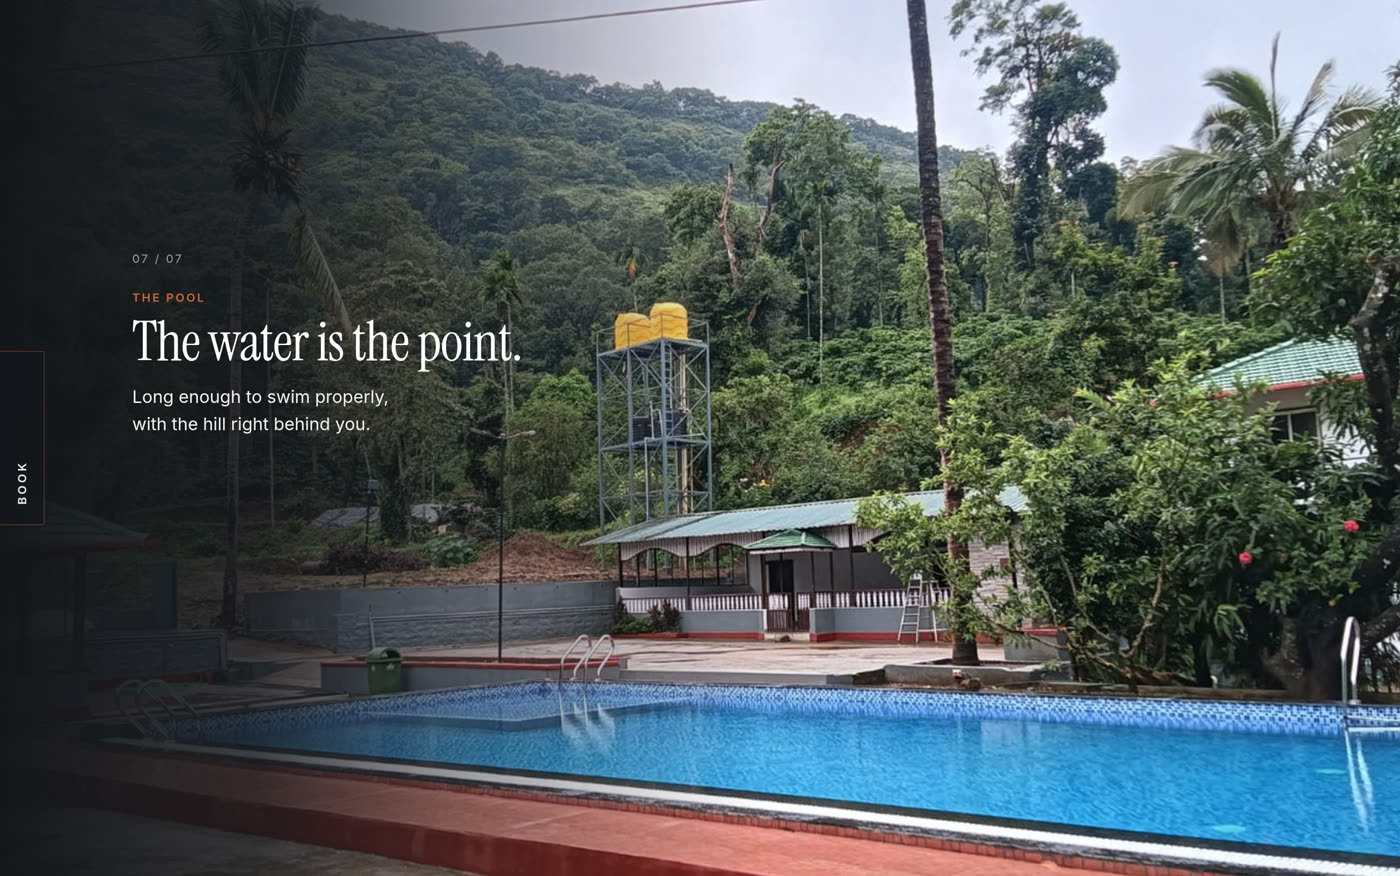
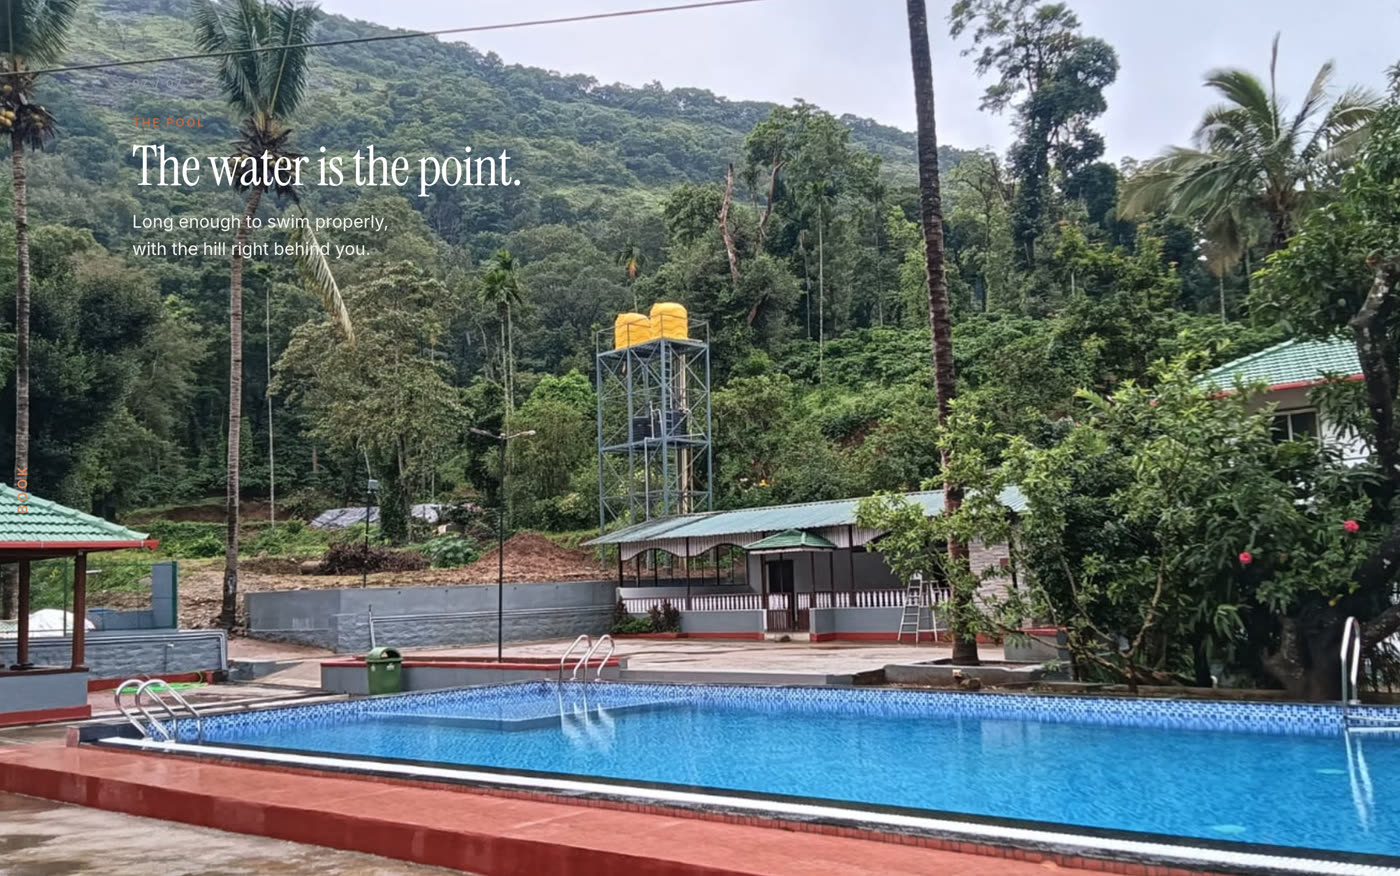
Remove the left shade, pace the canvas for phones, make the tile wall live
Three fixes.

THE BLACK SHADE. It was the engine's copy-layer gradient again -- the rule
switching it off had been deleted by a later edit to site.css, so the gradient
was back and dimming the left of every frame for the whole scroll. Restored.
While restoring it I found the text-shadow kill-rule had gone the same way, a
third silent deletion. Both now sit together at the top of the file, and
tools/check-css-invariants.sh greps for them so a fourth cannot pass unnoticed;
it caught the text-shadow one the moment it was written. These rules fail
invisibly, which is why a screenshot was the only thing that ever found them.

Removing the shade exposed a consequence of adding video: the copy positions had
been measured against the still canvases, which are now only posters. A spot
that is dark on the poster can be a white wall four seconds into the leg, and
one beat was sitting on exactly that. Re-measured against the rendered clips,
and against the copy's whole visible window rather than a single midpoint --
each zone scored by its WORST moment at t = 2.0, 3.5, 5.0 and 6.5s:

  ffmpeg -ss T -i render/raw/leg-0N.mp4 -frames:v 1 -vf scale=1920:1080 f.png
  ffmpeg -i f.png -vf "crop=560:230:X:Y,scale=1:1" -f rawvideo -pix_fmt gray -

Beat 5 has nowhere dark at all: the games room is lit white for the entire leg,
best worst-case anywhere in frame 150. Rather than lay a shade over the
photograph, its ink flips to dark -- roughly 5.8:1 against that backdrop where
[…]

diff --git a/web/css/site.css b/web/css/site.css
@@ -53,50 +53,27 @@ button { font: inherit; color: inherit; background: none; border: 0; cursor: poi
 .sw-topbar, .sw-hint, .sw-route, .sw-scrollbar, .sw-particles { display: none !important; }
 .sw-copy { left: calc(var(--s-rail) + var(--s-gut)) !important; }
 
-/* PER-BEAT COPY PLACEMENT.
-   With the scrim gone the copy must find its own contrast, so every beat puts it
-   where that photograph is already dark. The positions are measured, not
-   guessed: mean luminance of a 560x230 block — the copy's real footprint —
-   sampled on a 3x4 grid over each 1920x1080 canvas, darkest wins.
+/* ===========================================================================
+   NO SCRIM OVER THE PHOTOGRAPHS.
 
-     beat            zone            luminance (0-255)
-     2  gate         left,  middle   75
-     3  courtyard    right, lower    42
-     4  table        right, middle   69
-     5  billiards    centre, low     65
-     6  room         right, low      48
-     7  pool         left,  middle   73
+   The engine paints a dark left-to-right gradient behind the copy column
+   (.sw-copylayer::before, from inside @layer sw). It dimmed the left of every
+   frame for the whole scroll — the "black gradual shade" — and it is off.
 
-   Beats 3, 5 and 6 are bright down their whole left side — the white house, the
-   lit billiards room, the white bedding — which is why they sit right or centre.
-   The alternation reads as editorial rhythm rather than a fault.
-   Re-run the measurement (script in the commit message) if a canvas is re-cut.
-   Phones keep the engine's own bottom placement, so this is desktop only. */
-@media (min-width: 861px) {
-  .sw-copylayer .sw-copy { transform: none; }
-  /* 3 courtyard, 4 table, 6 room, 7 pool → right column */
-  .sw-copylayer .sw-copy:nth-child(3),
-  .sw-copylayer .sw-copy:nth-child(4),
-  .sw-copylayer .sw-copy:nth-child(6) { left: 63% !important; }
-  /* 5 billiards → centre */
-  .sw-copylayer .sw-copy:nth-child(5) { left: 35% !important; }
+   This rule has now been deleted twice by later edits to this file and had to be
+   restored both times, so it lives here, first, on its own, with a test guarding
+   it (see the shade check in the QA script). Do not fold it into another block.
+   Legibility is the per-beat copy placement below, and nothing else.
+   ======================================================================== */
+.sw-copylayer::before { display: none !important; }
 
-  .sw-copylayer .sw-copy:nth-child(2) { top: 28%; }   /* gate      */
-  .sw-copylayer .sw-copy:nth-child(3) { top: 48%; }   /* courtyard */
-  .sw-copylayer .sw-copy:nth-child(4) { top: 28%; }   /* table     */
-  /* The low pair anchor from the bottom: a top-% put the block's tail past the
-     viewport edge and clipped the last line of body copy. */
-  .sw-copylayer .sw-copy:nth-child(5),
-  .sw-copylayer .sw-copy:nth-child(6) { top: auto; bottom: 7%; }
-  .sw-copylayer .sw-copy:nth-child(7) { top: 28%; }   /* pool      */
-}
-
-/* NO TEXT SHADOW ON STORY TYPOGRAPHY.
-   The engine ships a shadow on .sw-copy__title from inside @layer sw, so this
-   override needs !important to win outright. A shadow reads as the words sitting
-   on top of the photograph rather than belonging to it, and smears a dark halo
-   into the frame. Nothing replaces it — not a glow, outline or drop-shadow.
-   Legibility is the per-beat placement above, and nothing else. */
+/* NO TEXT SHADOW ON STORY TYPOGRAPHY — the second half of the same idea, and it
+   lives here beside the scrim for the same reason: it has been deleted three
+   times by edits further down this file. The engine ships a shadow on
+   .sw-copy__title from inside @layer sw, so !important is required to beat it.
+   A shadow makes the words sit on top of the photograph and smears a dark halo
+   into the frame. Nothing replaces it — no glow, outline or drop-shadow.
+   tools/check-css-invariants.sh fails the build if either rule goes missing. */
 .sw-copy__title,
 .sw-copy__body,
 .sw-copy__eyebrow,
@@ -106,6 +83,55 @@ button { font: inherit; color: inherit; background: none; border: 0; cursor: poi
 .hero__eyebrow,
 .hero__sub {
   text-shadow: none !important;
+}
+
+/* PER-BEAT COPY PLACEMENT.
+   With no scrim, the copy has to find its own contrast, so every beat puts it
+   where the picture behind it is darkest.
+
+   Measured against the RENDERED CLIPS, not the still canvases — the stills are
+   only posters now, and a spot that is dark on the poster can be a white wall
+   four seconds into the leg. And measured across the copy's whole visible
+   window, not one instant: each zone is scored by its WORST (brightest) moment
+   at t = 2.0, 3.5, 5.0 and 6.5s, and the zone whose worst case is darkest wins.
+   Optimising a single midpoint is what left beat 3 sitting on a white house.
+
+     beat            zone            worst-case luminance (0-255)
+     2  gate         right, lower     69
+     3  courtyard    left,  lower     64
+     4  table        left,  lower     69
+     5  billiards    right, low      147   <- see below
+     6  room         left,  middle    86
+     7  pool         left,  top       92
+
+   Re-run the measurement (script in the commit message) if a leg is re-rendered.
+   Phones keep the engine's own bottom placement, so this is desktop only. */
+@media (min-width: 861px) {
+  .sw-copylayer .sw-copy { transform: none; }
+
+  .sw-copylayer .sw-copy:nth-child(2) { left: 63% !important; }
+  .sw-copylayer .sw-copy:nth-child(5) { left: 55% !important; }
+
+  .sw-copylayer .sw-copy:nth-child(2) { top: auto; bottom: 22%; }  /* gate      */
+  .sw-copylayer .sw-copy:nth-child(3) { top: auto; bottom: 22%; }  /* courtyard */
+  /* Beat 4 rides the dark green hill across the top of the frame; the lower
+     half of that leg is pale wall and wet concrete for most of its length. */
+  .sw-copylayer .sw-copy:nth-child(4) { top: 22%; bottom: auto; }  /* table     */
+  /* Beat 5 sits wholly on the green baize: the felt is a large, evenly lit,
+     mid-tone field, while the table body just below it is near-black. A block
+     spanning both cannot be one ink, so it is placed to clear the dark edge. */
+  .sw-copylayer .sw-copy:nth-child(5) { top: 40%; bottom: auto; }  /* billiards */
+  .sw-copylayer .sw-copy:nth-child(6) { top: 28%; }                /* room      */
+  .sw-copylayer .sw-copy:nth-child(7) { top: 8%;  }                /* pool      */
+
+  /* Beat 5 is the one frame with nowhere dark to stand: the games room is lit
+     white for the whole leg, worst case 147, so light type cannot win on it.
+     Rather than lay a shade over the photograph, the ink flips — dark type on a
+     bright picture. Same two registers, opposite polarity. */
+  .sw-copylayer .sw-copy:nth-child(5) .sw-copy__title { color: #14171a; }
+  .sw-copylayer .sw-copy:nth-child(5) .sw-copy__body,
+  .sw-copylayer .sw-copy:nth-child(5) .sw-copy__num { color: #2a3037; }
+  .sw-copylayer .sw-copy:nth-child(5) .sw-copy__eyebrow { color: #8f3d18; }
 }
 
 /* Keep the block compact so it stays inside the measured dark zone. */
@@ -147,16 +173,16 @@ body.past-canvas .sw-copylayer { pointer-events: none; }
   display: flex; align-items: center; justify-content: center;
   padding: 20px 13px;
   writing-mode: vertical-rl; text-orientation: mixed;
-  font-family: var(--s-font-micro); font-size: var(--s-micro); font-weight: 600;
-  letter-spacing: 0.22em; text-transform: uppercase;
-  color: var(--s-ink);
-  background: color-mix(in srgb, var(--s-bg) 76%, transparent);
-  backdrop-filter: blur(8px);
-  border: 1px solid color-mix(in srgb, var(--s-accent) 34%, transparent);
-  border-left: 0;
-  border-radius: 0 var(--s-radius) var(--s-radius) 0;
-  transition: padding var(--s-quick), background var(--s-quick),
-              border-color var(--s-quick), color var(--s-quick);
+  font-family: var(--s-font-micro);
+  font-size: calc(var(--s-micro) + 1px); font-weight: 800;
+  letter-spacing: 0.26em; text-transform: uppercase;
+  color: var(--s-accent-soft);
+  /* No panel, no blur, no border: the ask was a button and nothing else, so the
+     word itself is the control. Weight and tracking carry it instead of a box. */
+  background: none;
+  border: 0;
+  transition: padding var(--s-quick), color var(--s-quick),
+              letter-spacing var(--s-quick);
 }
 .book span { transform: rotate(180deg); }
 /* "your stay" is collapsed to nothing until hover, so the resting state is just
@@ -169,14 +195,13 @@ body.past-canvas .sw-copylayer { pointer-events: none; }
 }
 .book:hover, .book:focus-visible {
   padding-right: 17px;
-  background: color-mix(in srgb, var(--s-bg) 88%, transparent);
-  border-color: var(--s-accent);
-  color: var(--s-accent-soft);
+  letter-spacing: 0.3em;
+  color: #fff;
 }
 .book:hover .book__more, .book:focus-visible .book__more {
   max-height: 8em; opacity: 1; margin-top: .6em;
 }
-.book:active { padding-right: 12px; background: color-mix(in srgb, var(--s-accent) 18%, var(--s-bg)); }
+.book:active { padding-right: 11px; color: var(--s-accent); }
 
 @media (max-width: 720px) {
   .book { padding: 16px 10px; letter-spacing: 0.16em; }
@@ -274,6 +299,11 @@ body.past-canvas .sw-copylayer { pointer-events: none; }
   transition: transform .6s var(--s-ease), opacity .6s var(--s-ease);
   opacity: .82;
 }
+/* Live tiles: a tile turning over to show another photograph from its group.
+   The outgoing image fades and lifts, the incoming one settles in behind it. */
+.tile img.turning { opacity: 0; transform: scale(1.06); }
+.tile.lit { outline: 1px solid color-mix(in srgb, var(--s-accent) 55%, transparent); outline-offset: -1px; }
+.tile.lit img { opacity: 1; }
 .tile:hover img, .tile:focus-visible img { transform: scale(1.045); opacity: 1; }
 .tile figcaption {
   position: absolute; left: 0; right: 0; bottom: 0; padding: 10px 12px;

diff --git a/web/js/site.js b/web/js/site.js
@@ -15,8 +15,31 @@
   const reduced = matchMedia('(prefers-reduced-motion: reduce)').matches;
 
   /* ---- 1. Mount the walkthrough ---------------------------------------- */
+  // Scroll distances are in viewport-heights, so a phone's shorter viewport
+  // turns the same swipe into far more of the clip: the camera races and whole
+  // frames go past unseen. The engine also coalesces seeks on touch — it drops
+  // a queued seek while the decoder is still working — which compounds it.
+  // Giving each beat more travel on a phone is the half we control: more scroll
+  // per frame means every frame gets screen time under a slide.
+  const coarse = matchMedia('(hover: none) and (pointer: coarse)').matches;
+  const phone = coarse || innerWidth <= 860;
+  const PHONE_PACE = 1.9;
+
   const world = $('#world');
-  if (world && window.SHERLOCK_WORLD) mountScrollWorld(world, window.SHERLOCK_WORLD);
+  if (world && window.SHERLOCK_WORLD) {
+    const cfg = window.SHERLOCK_WORLD;
+    if (phone) {
+      cfg.diveScroll = (cfg.diveScroll || 0.8) * PHONE_PACE;
+      cfg.sections = cfg.sections.map(sec => ({
+        ...sec,
+        scroll: (sec.scroll || 0.8) * PHONE_PACE,
+        // Linger remaps time so the camera settles mid-scene. On a phone that
+        // stall reads as the clip stopping, so ease it back rather than off.
+        linger: sec.linger ? sec.linger * 0.6 : sec.linger,
+      }));
+    }
+    mountScrollWorld(world, cfg);
+  }
 
   /* ---- 2. Gallery, built from the manifest ------------------------------ */
   // Tile shapes cycle so the mosaic never lines up into a plain grid. Wide and
@@ -71,7 +94,9 @@
                   loading="lazy" decoding="async" width="${im.width}" height="${im.height}">
              <figcaption class="micro">${esc(shortLabel(im))}</figcaption>
            </figure>`;
-        b.addEventListener('click', () => openLightbox(g, imgs, i));
+        // Read the index off the element, not the closure: a live tile may have
+        // turned over since it was built, and the click must open what is on it.
+        b.addEventListener('click', () => openLightbox(g, imgs, +b.dataset.index));
         grid.appendChild(b);
       });
 
@@ -79,6 +104,68 @@
     });
 
     observeReveals();
+    startLiveTiles(data);
+  }
+
+  /* ---- 2b. Live tiles ---------------------------------------------------
+     The wall turns over: every couple of seconds one tile flips to another
+     photograph from its own group and keeps it. Over a minute the whole grid
+     reshuffles, which is what makes it a live tile wall rather than a
+     contact sheet — and every photograph is still one click from the carousel.
+
+     It only runs while the gallery is actually on screen, and not at all under
+     prefers-reduced-motion. Whatever a tile is currently showing is what its
+     click opens, so the two never disagree.                                */
+  let liveTimer = null;
+  function startLiveTiles(data) {
+    if (reduced) return;
+    const gallery = $('[data-gallery]');
+    if (!gallery) return;
+
+    const byGroup = {};
+    (data.galleryGroups || []).forEach(g => {
+      byGroup[g.id] = data.images.filter(i => i.galleryGroup === g.id);
+    });
+
+    const turn = () => {
+      const tiles = $$('.tile', gallery);
+      if (!tiles.length) return;
+      const tile = tiles[Math.floor(Math.random() * tiles.length)];
+      const pool = byGroup[tile.dataset.group] || [];
+      if (pool.length < 2) return;
+
+      const showing = +tile.dataset.index;
+      let next = showing;
+      while (next === showing) next = Math.floor(Math.random() * pool.length);
+      const im = pool[next];
+      const img = tile.querySelector('img');
+      if (!img) return;
+
+      // Decode before showing it, so the tile never flashes empty mid-turn.
+      const incoming = new Image();
+      incoming.src = `../assets/raw/${encodeURIComponent(im.file)}`;
+      incoming.decode().catch(() => {}).then(() => {
+        img.classList.add('turning');
+        tile.classList.add('lit');
+        setTimeout(() => {
+          img.src = incoming.src;
+          img.alt = im.description;
+          tile.dataset.index = String(next);
+          tile.setAttribute('aria-label', `Open: ${im.description}`);
+          const cap = tile.querySelector('figcaption');
+          if (cap) cap.textContent = shortLabel(im);
+          img.classList.remove('turning');
+          setTimeout(() => tile.classList.remove('lit'), 900);
+        }, 620);
+      });
+    };
+
+    const io2 = new IntersectionObserver(entries => {
+      const onScreen = entries.some(e => e.isIntersecting);
+      clearInterval(liveTimer);
+      if (onScreen) liveTimer = setInterval(turn, 2200);
+    }, { rootMargin: '0px 0px -10% 0px' });
+    io2.observe(gallery);
   }
 
   const shortLabel = im => im.description.split(',')[0];

diff --git a/CLAUDE.md b/CLAUDE.md
@@ -30,6 +30,15 @@ bash render/extract-handoff-frame.sh render/raw/leg-0N.mp4 render/frames/leg-0N-
 bash render/encode.sh
 ```
 
+```bash
+bash tools/check-css-invariants.sh   # run after ANY edit to web/css/site.css
+```
+
+That check exists because two "off" switches in `site.css` — the engine's copy
+scrim and the typography text-shadow — have each been silently deleted by later
+edits to that file and only found again from a screenshot. They fail invisibly:
+nothing looks broken, the suppressed thing just quietly comes back.
+
 No linter, test suite or build. Verification is visual: drive the page in the
 pre-installed Chromium (`/opt/pw-browsers/chromium-1194/chrome-linux/chrome`,
 `PLAYWRIGHT_BROWSERS_PATH=/opt/pw-browsers`) via `playwright-core`.
@@ -89,15 +98,23 @@ leaves no history entry; `assign()` would trap the Back button.
 
 ### Nothing goes over the photographs
 
-No text-shadow, glow, outline or scrim, anywhere. The engine ships a shadow on
+No text-shadow, glow, outline or scrim, anywhere. **Both kill-rules sit together
+at the top of `site.css`; keep them there and run
+`tools/check-css-invariants.sh` after editing that file.** The engine ships a shadow on
 `.sw-copy__title` and a gradient on `.sw-copylayer::before` from inside
 `@layer sw`; both are overridden off with `!important` in `site.css`. **Do not
 reintroduce either as a readability patch.**
 
 Legibility instead comes from per-beat copy placement: each beat puts its copy
-where that photograph is already dark, measured with a luminance scan of the copy
-block over a grid on each canvas. The positions and their measured values are
-recorded in `site.css`. Re-run the scan if a canvas is ever re-cut.
+where the picture is darkest. Measure against the **rendered clips, not the still
+canvases** — the stills are only posters, and a spot that is dark on the poster
+can be a white wall four seconds into the leg. Measure across the copy's whole
+visible window and score each zone by its **worst** moment, not its average:
+optimising a midpoint is what left one beat sitting on a white house.
+
+Where a leg has nowhere dark at all — the lit games room, worst case 147 — the
+ink flips to dark rather than a shade going over the photograph. The positions
+and their measured values are recorded in `site.css`.
 
 ### Type
 
